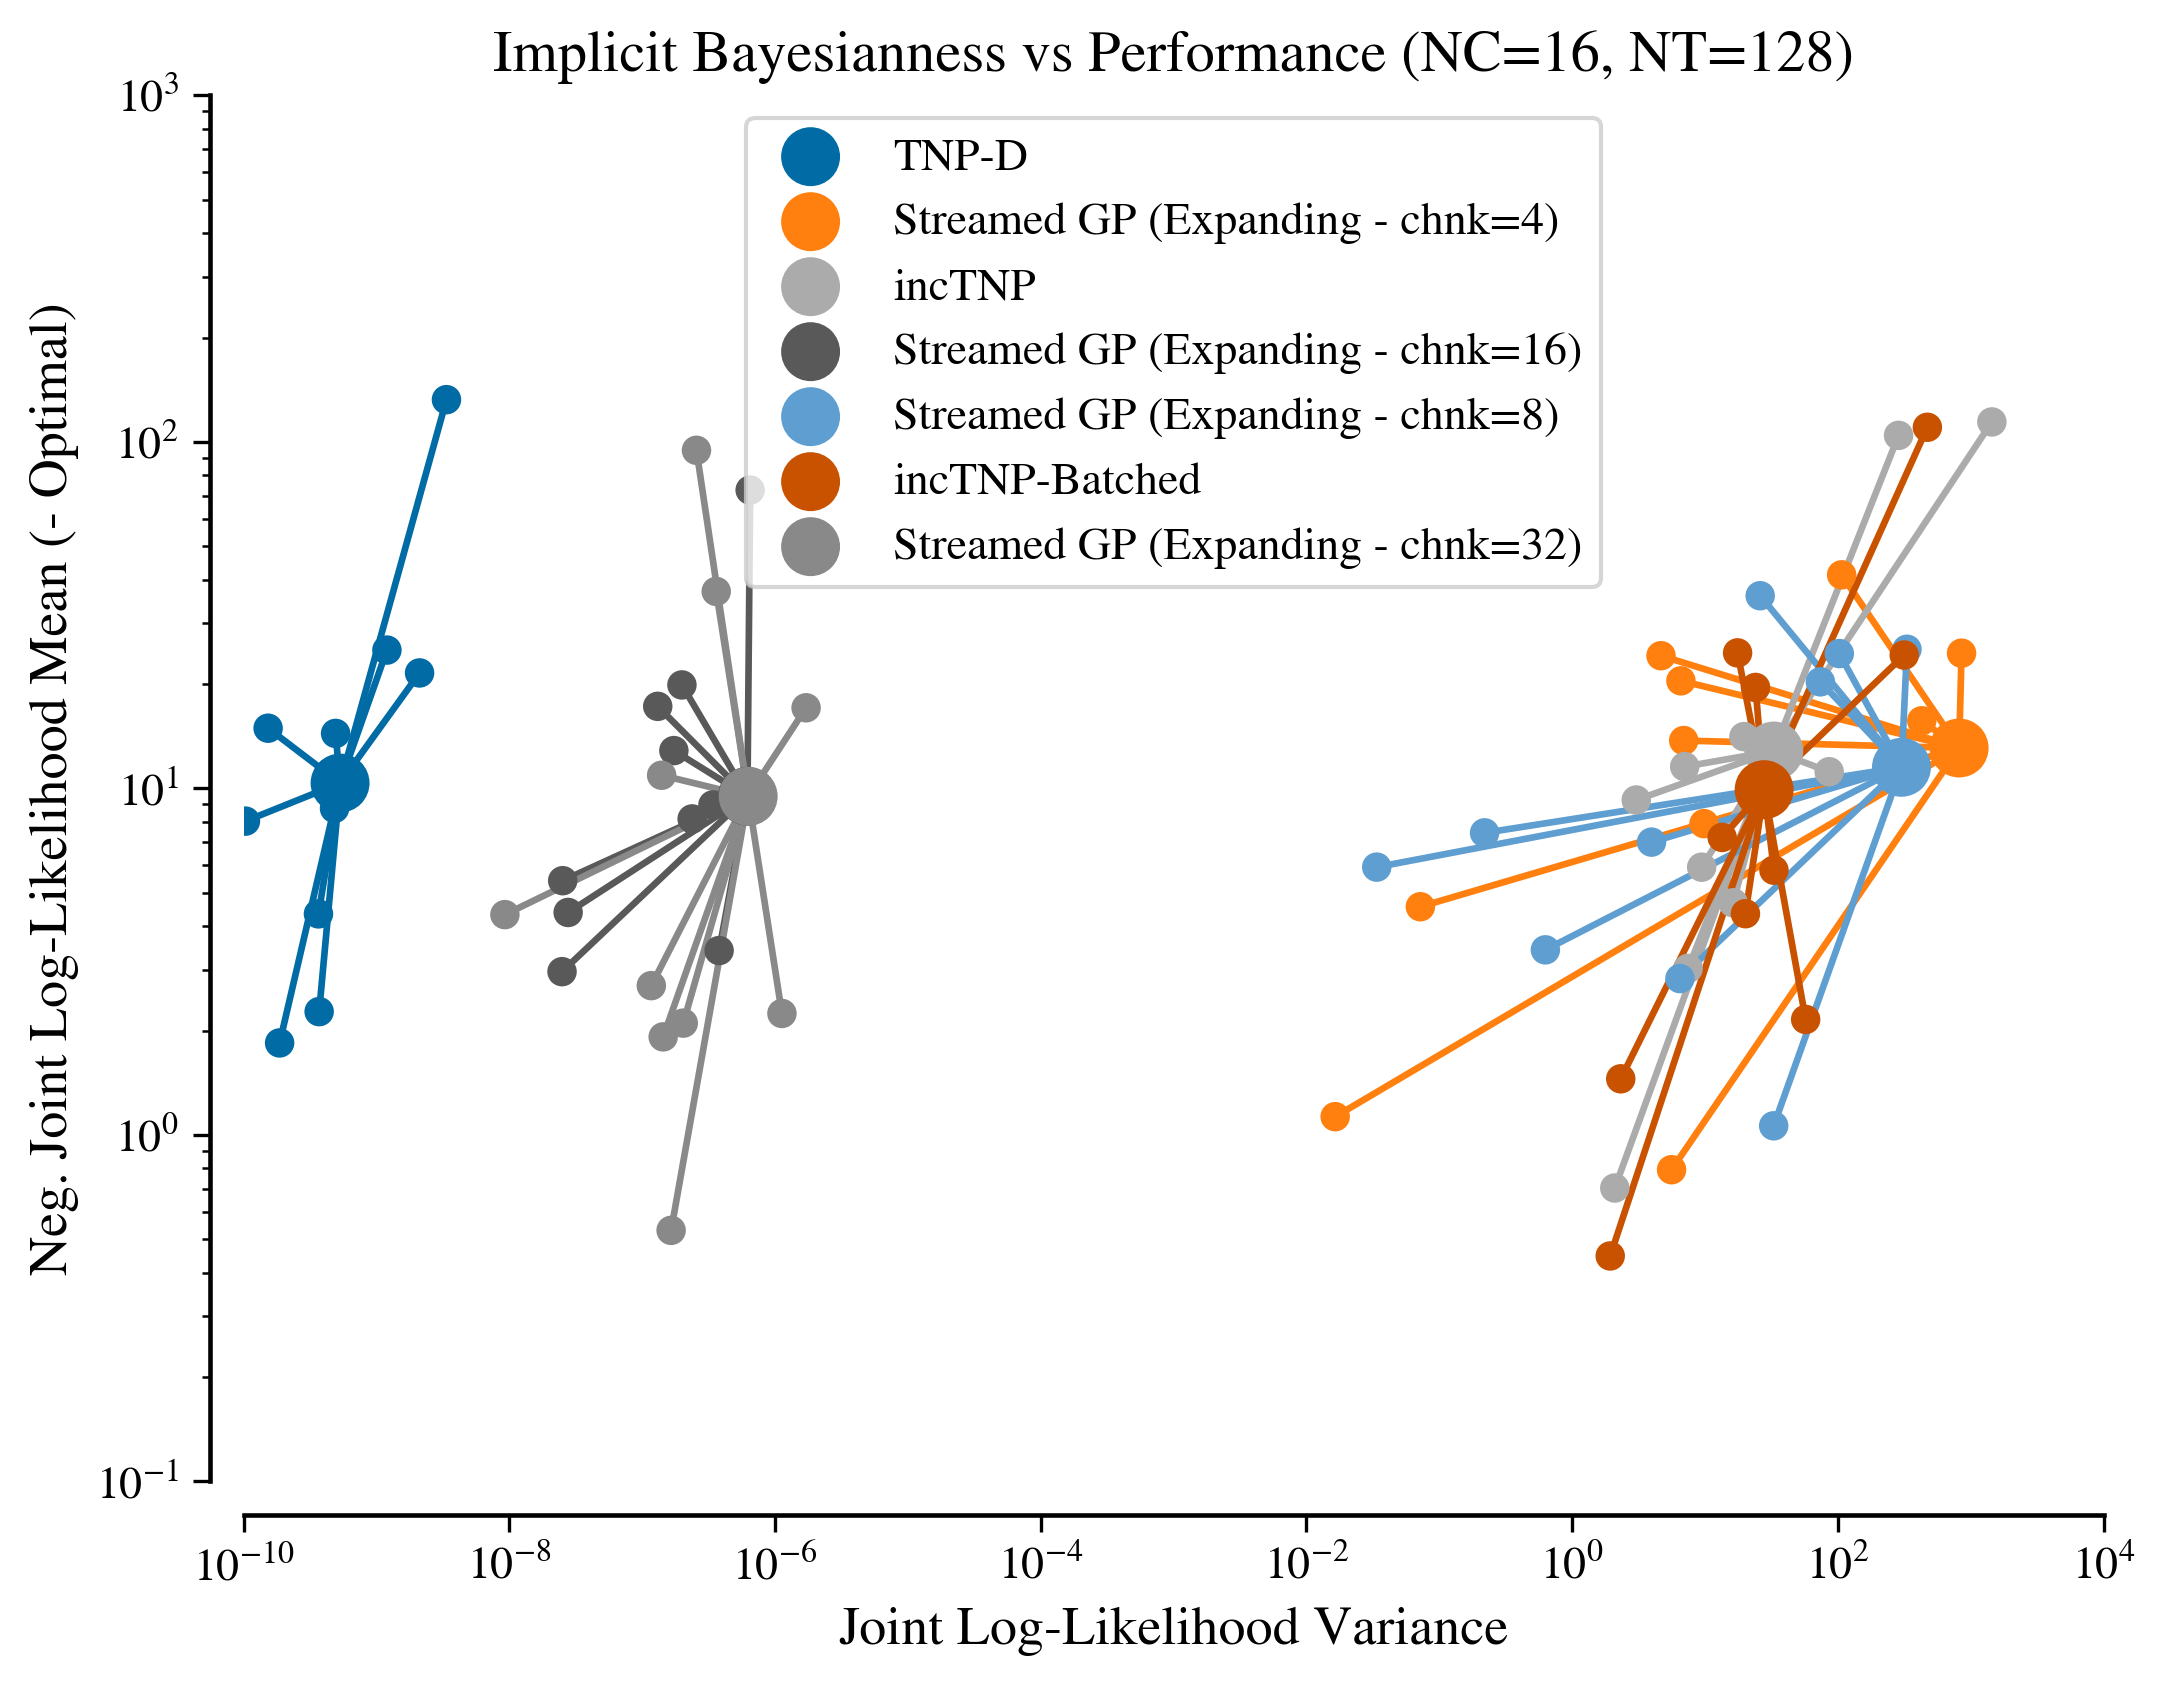
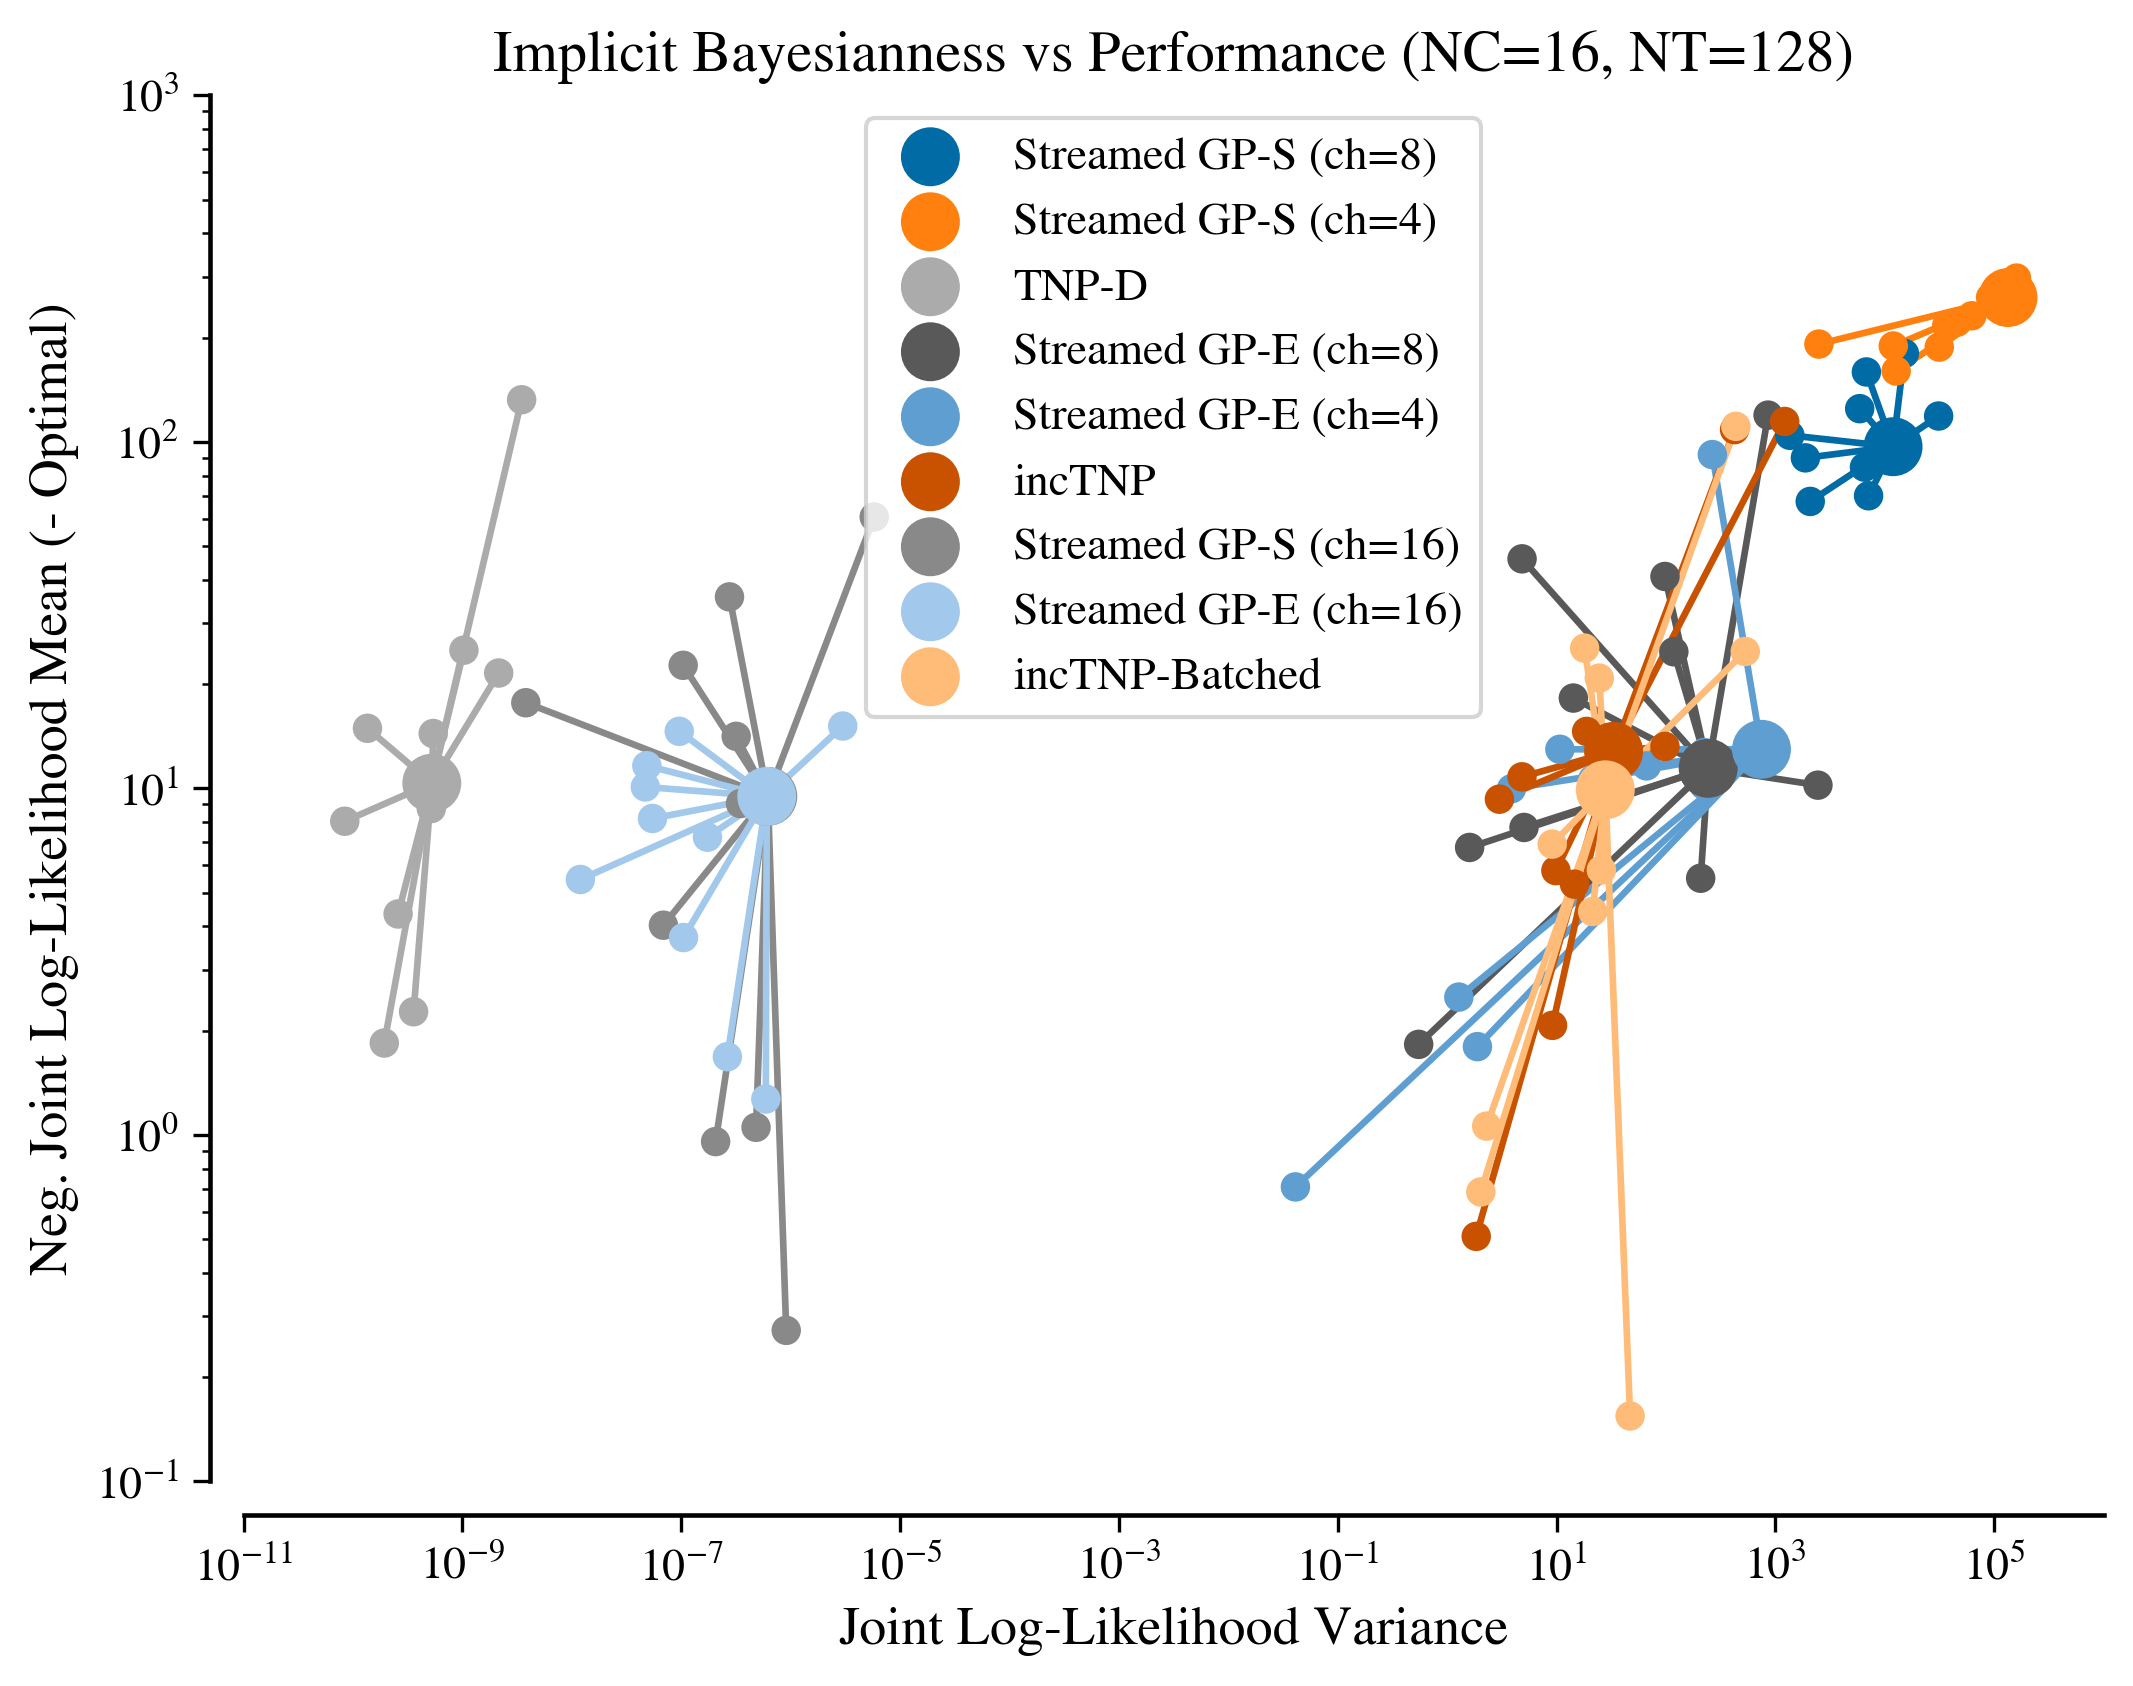
Got all GP and TNP data for a run

diff --git a/experiments/exchangeability.py b/experiments/exchangeability.py
@@ -365,11 +365,12 @@ def plot_models_setup_rbf_same():
     gp_streamed_sliding_32 = ["", "", gp_name, 32, "Sliding"]
     models_gp = [gp_streamed_expanding_1, gp_streamed_expanding_2, gp_streamed_expanding_4, gp_streamed_expanding_8, gp_streamed_expanding_16, gp_streamed_expanding_32,
         gp_streamed_sliding_1, gp_streamed_sliding_2, gp_streamed_sliding_4, gp_streamed_sliding_8, gp_streamed_sliding_16, gp_streamed_sliding_32]
-    models_gp = [gp_streamed_expanding_4, gp_streamed_expanding_8, gp_streamed_expanding_16, gp_streamed_expanding_32]
+    models_gp_expanding = [gp_streamed_expanding_4, gp_streamed_expanding_8, gp_streamed_expanding_16]
+    models_gp_sliding = [gp_streamed_sliding_4, gp_streamed_sliding_8, gp_streamed_sliding_16]
 
     models_all_no_ar = models_tnp + models_gp
     models_all = models_tnp + models_gp + models_ar
-    return models_gp
+    return models_gp_sliding
 
 def extract_vars_from_folder_name(folder_name):
     patterns = {
@@ -511,7 +512,7 @@ def gather_stats_models(helper_tuple, base_folder_name):
     use_autoreg_eq=False
     max_samples=samples_per_epoch
     return_samples=max_samples # essentially return as many as possible (but one per batch)
-    skip_existing_folders = False # Skips existing file writes - no need to do work again
+    skip_existing_folders = True # Skips existing file writes - no need to do work again
     # End of hypers
 
     (models) = helper_tuple
@@ -529,7 +530,8 @@ def gather_stats_models(helper_tuple, base_folder_name):
         # Formats model names
         if model_name == "Streamed GP":
             _, _, name_base, chunk_size, strat = mod_data
-            model_name_fmt = model_name + f' ({strat} - chnk={chunk_size})'
+            gp_ext = "-E" if strat == "Expanding" else "-S"
+            model_name_fmt = model_name + gp_ext+ f' (ch={chunk_size})'
         elif model_name == "TNP-A":
             model_name_fmt = model_name + f' ({mod_data[3]} samples)'
         else: model_name_fmt = model_name

diff --git a/tnp/models/gp_online.py b/tnp/models/gp_online.py
@@ -147,7 +147,7 @@ class GPStreamRBF(GPStream):
         lr: float = 0.05, # LR for grad updates
         n_steps: int = 50, # Number of grad steps per update
         train_strat: Literal["Expanding", "Sliding"] = "Expanding",
-        convergence_tolerance: float=1e-6, 
+        convergence_tolerance: float=1e-5, 
         device: str = "cuda",
     ):
         super().__init__(kernel_name="rbf",
